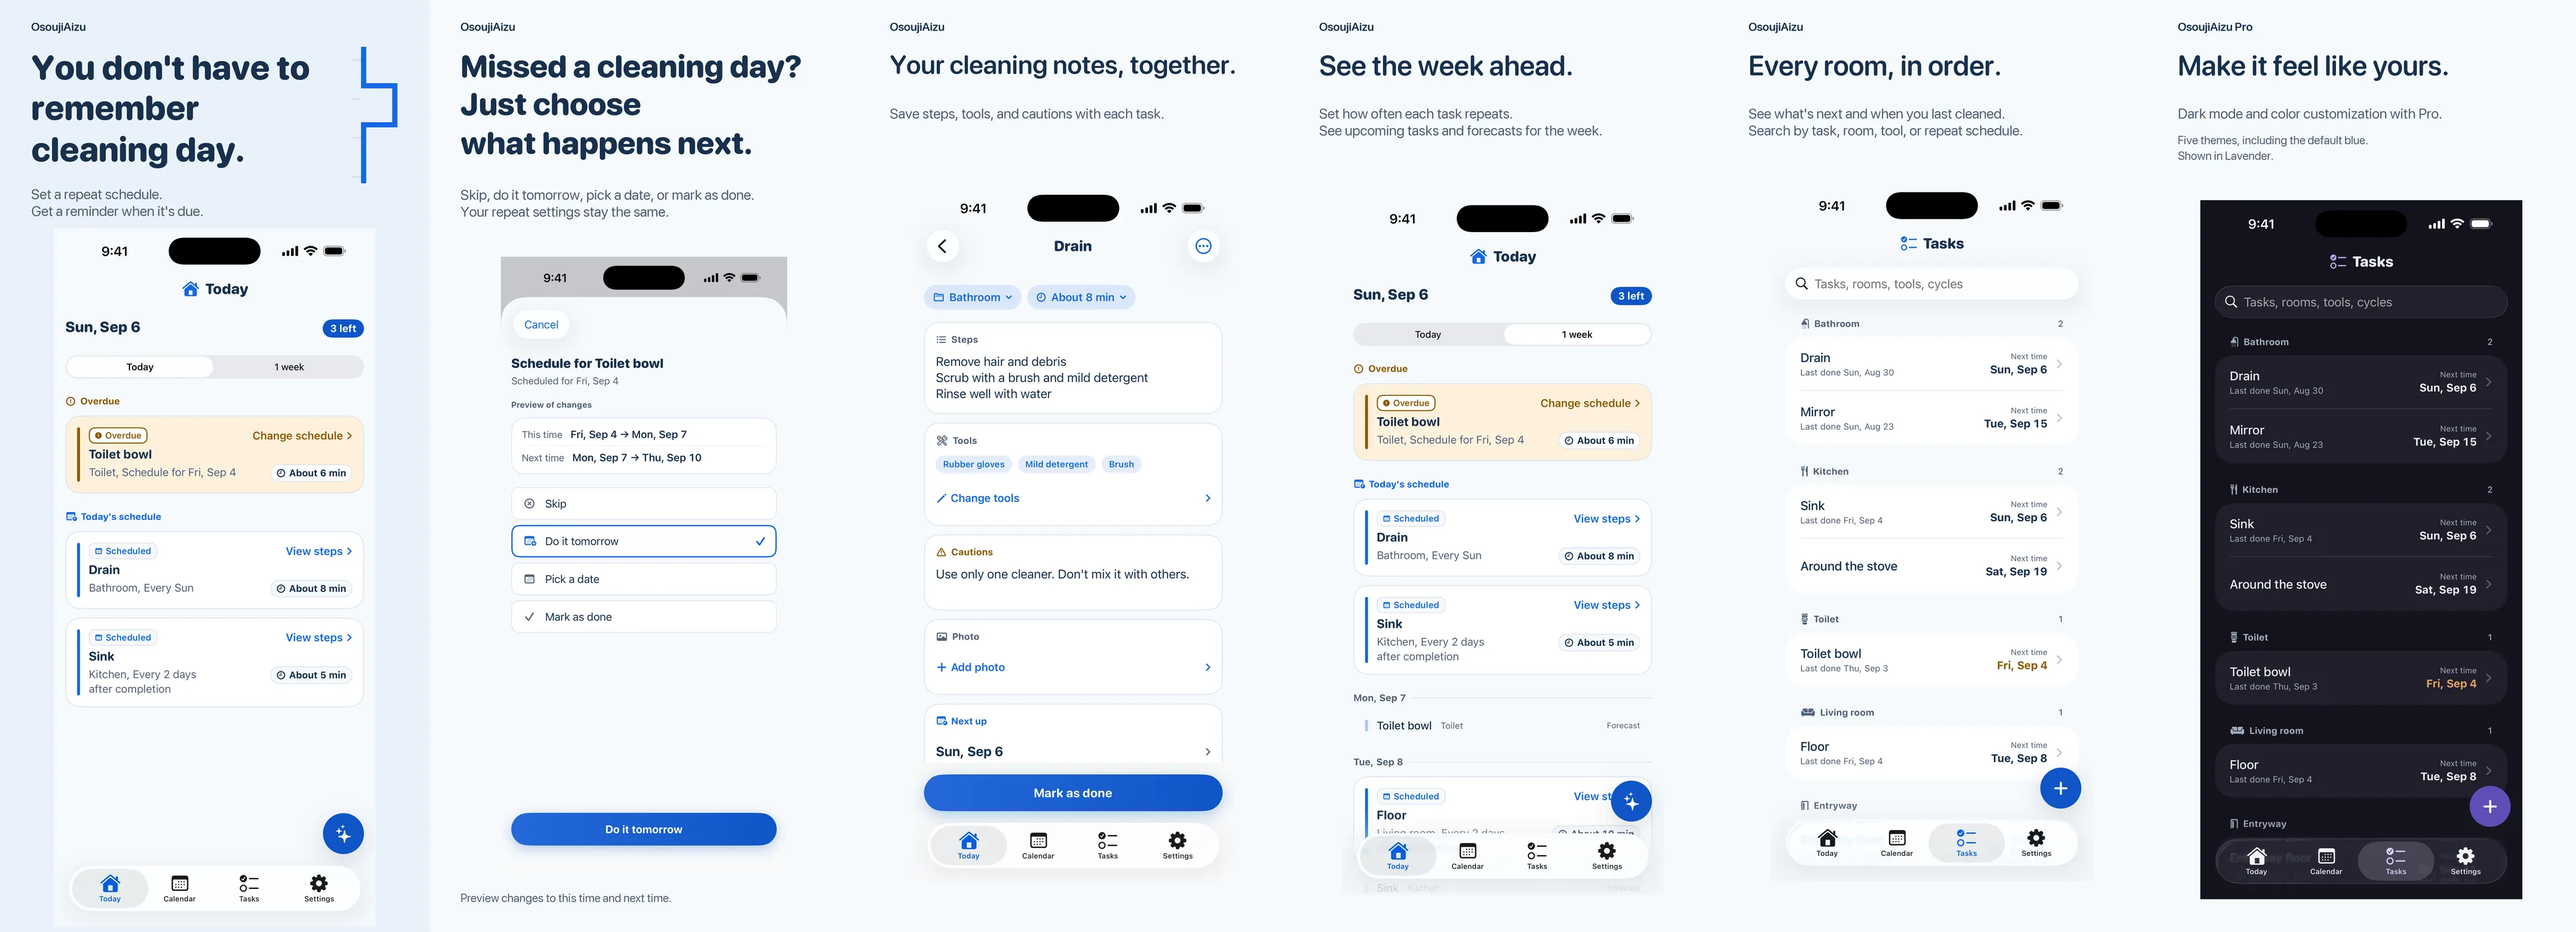
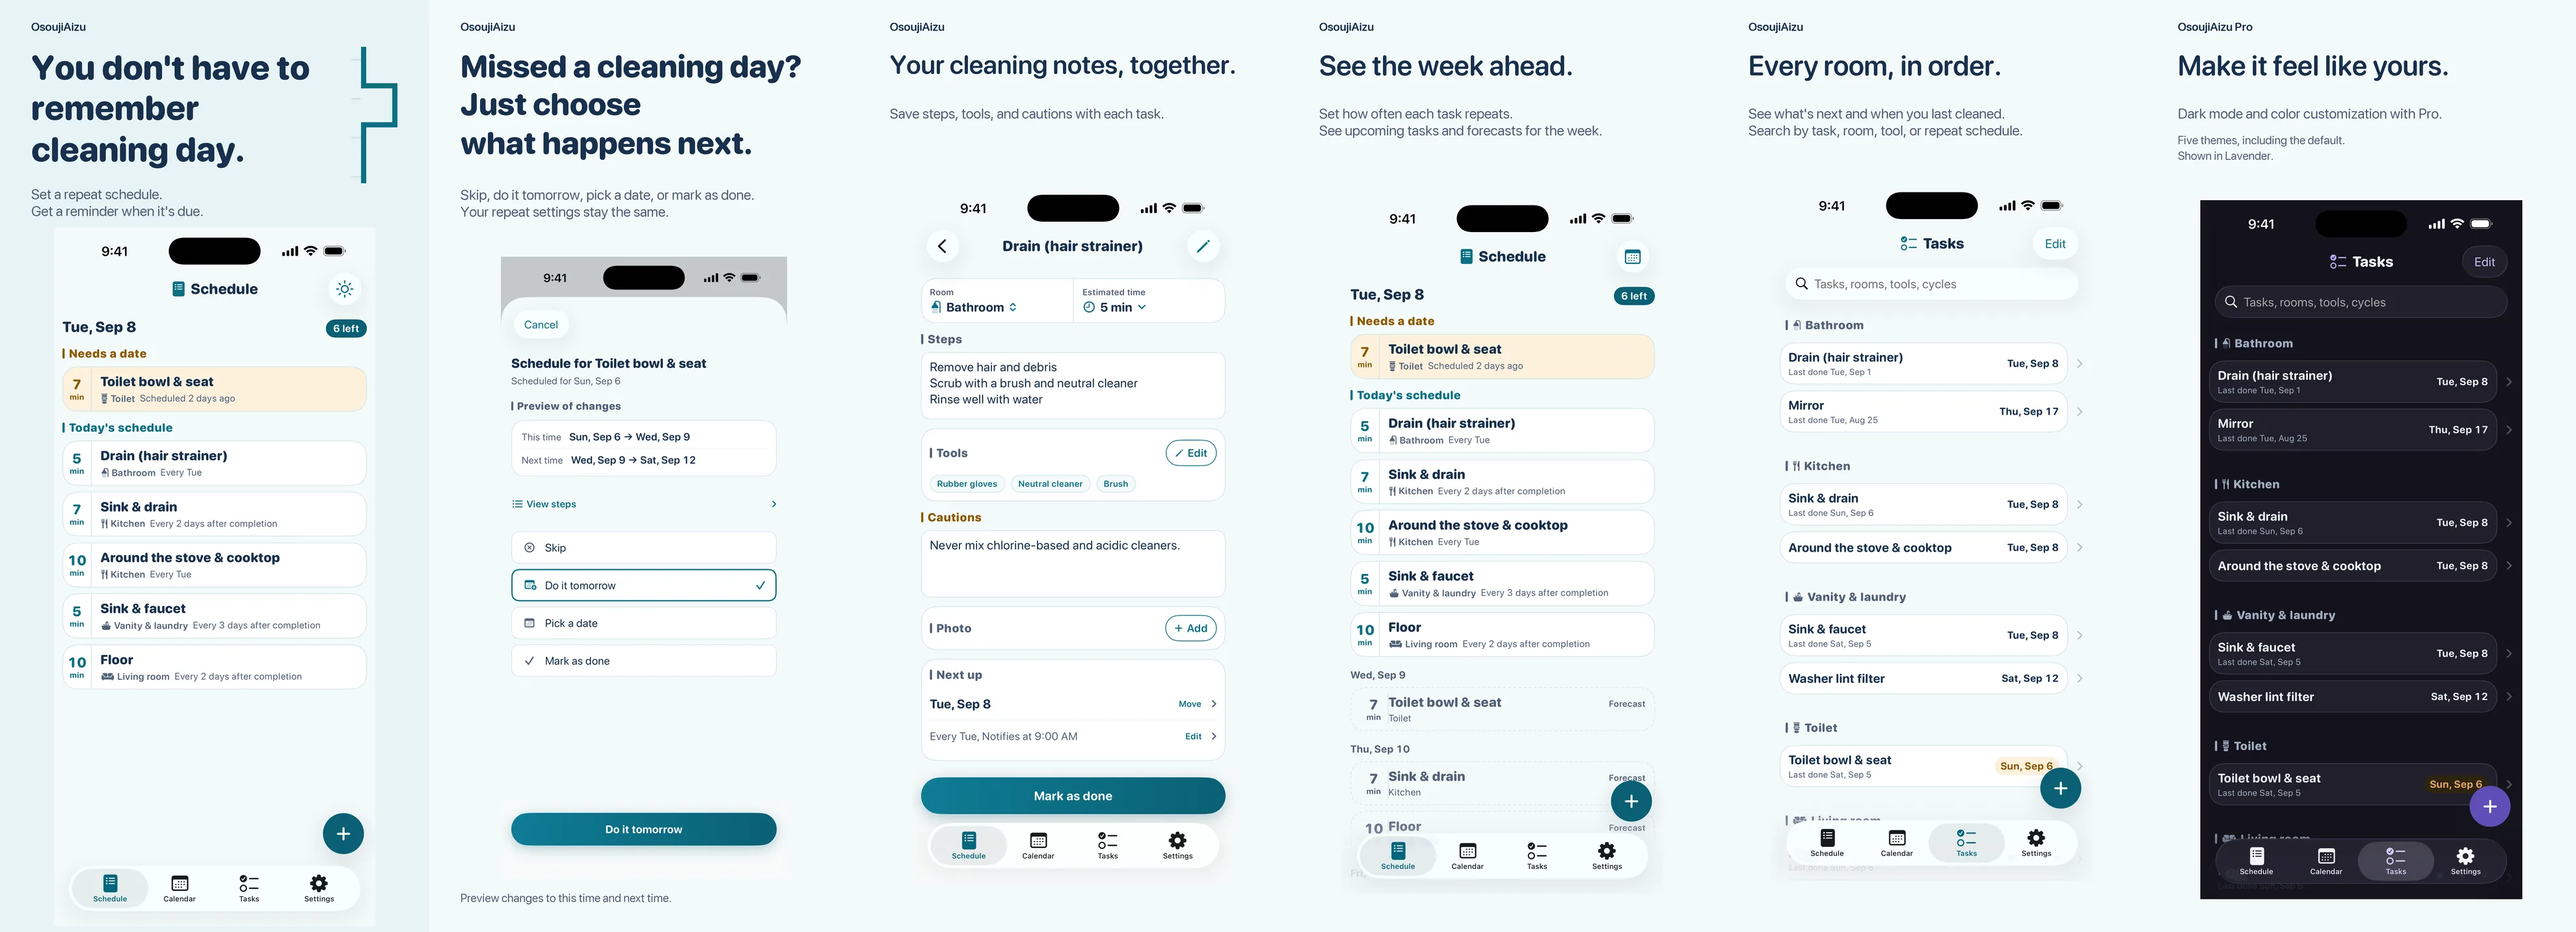
おそうじ合図: LP とサポートを現行のアプリに合わせる
- タブ名が「今日」のままだった（アプリは「予定」／英語は Schedule へ改称済み）。
  index・support の本文とスクショの読み上げラベルを日英とも直す
- サポートの「周期は勝手に変わりますか？」が実装と食い違っていた。予定を見直すと
  今回と次回の**どちらの日付も動く**（RescheduleSheetView のプレビューが2行出る）。
  変わらないのは周期そのもの
- LP のスクリーンショット4本を、2026-09-08 に作り直した訴求画像から再生成（日英・1x/@2x）

Claude-Session: https://claude.ai/code/session_01PemQtVUBi2TPc1iWQ6jLR3

diff --git a/osoujiaizu/index.html b/osoujiaizu/index.html
@@ -308,10 +308,10 @@
   <section class="shots" aria-label="アプリの画面">
     <div class="wrap">
       <figure class="shot">
-        <p class="sr-only">アプリの6画面。1. 今日「その日にやる掃除が、残り件数と所要時間つきで並ぶ」2. 予定を選び直す「できなかった日はスキップ・明日・日付選択・完了の4択。周期は変わらない」3. タスクの詳細「手順・使う道具・注意点をタスクに持てる」4. 1週間「先の予定と予測をまとめて見る」5. 部屋ごとのタスク「前回と次回が部屋別に並び、道具や周期でも検索できる」6. ダークとテーマ配色「Proで見た目を変えられる」</p>
+        <p class="sr-only">アプリの6画面。1. 予定「その日にやる掃除が、残り件数と所要時間つきで並ぶ」2. 予定を選び直す「できなかった日はスキップ・明日・日付選択・完了の4択。周期は変わらない」3. タスクの詳細「手順・使う道具・注意点をタスクに持てる」4. 1週間「先の予定と予測をまとめて見る」5. 部屋ごとのタスク「前回と次回が部屋別に並び、道具や周期でも検索できる」6. ダークとテーマ配色「Proで見た目を変えられる」</p>
         <div class="shot-frame">
           <div class="shot-track">
-            <button type="button" class="shot-slide" style="--i:0" aria-label="1枚目の画面（今日）を拡大"><img src="./app-image.webp" alt="" decoding="async"></button>
+            <button type="button" class="shot-slide" style="--i:0" aria-label="1枚目の画面（予定）を拡大"><img src="./app-image.webp" alt="" decoding="async"></button>
             <button type="button" class="shot-slide" style="--i:1" aria-label="2枚目の画面（予定を選び直す）を拡大"><img src="./app-image.webp" alt="" decoding="async"></button>
             <button type="button" class="shot-slide" style="--i:2" aria-label="3枚目の画面（タスクの詳細）を拡大"><img src="./app-image.webp" alt="" decoding="async"></button>
             <button type="button" class="shot-slide" style="--i:3" aria-label="4枚目の画面（1週間）を拡大"><img src="./app-image.webp" alt="" decoding="async"></button>
@@ -320,7 +320,7 @@
           </div>
         </div>
         <div class="shot-dots">
-          <button type="button" class="shot-dot" aria-label="1枚目の画面（今日）を表示"></button>
+          <button type="button" class="shot-dot" aria-label="1枚目の画面（予定）を表示"></button>
           <button type="button" class="shot-dot" aria-label="2枚目の画面（予定を選び直す）を表示"></button>
           <button type="button" class="shot-dot" aria-label="3枚目の画面（タスクの詳細）を表示"></button>
           <button type="button" class="shot-dot" aria-label="4枚目の画面（1週間）を表示"></button>
@@ -369,7 +369,7 @@
             <svg viewBox="0 0 24 24" fill="none" stroke="currentColor" stroke-width="1.8" stroke-linecap="round" stroke-linejoin="round" focusable="false"><rect x="3.5" y="5" width="17" height="15" rx="2.5"/><path d="M3.5 9.5h17"/><path d="M8 3v4M16 3v4"/><circle cx="8" cy="14" r="1.2" fill="currentColor" stroke="none"/><circle cx="12" cy="14" r="1.2" fill="currentColor" stroke="none"/><circle cx="16" cy="14" r="1.2" fill="currentColor" stroke="none"/></svg>
           </div>
           <h3>今日と、その先を見渡す</h3>
-          <p>「今日」は 今日だけか1週間かを切り替えられます。カレンダーでは先の予定と済ませた記録を月ごとに見られます。完了は1日1回までで、押し間違えてもその日のうちなら取り消せます。</p>
+          <p>「予定」は 今日だけか1週間かを切り替えられます。カレンダーでは先の予定と済ませた記録を月ごとに見られます。完了は1日1回までで、押し間違えてもその日のうちなら取り消せます。</p>
         </li>
       </ul>
       <p class="instruments">無料でタスク・予定それぞれ15件まで。掃除の記録に上限はありません。件数の上限をなくす・ダークモード・配色を選ぶ・記録の書き出し／読み込みは Pro の機能です。</p>
@@ -414,7 +414,7 @@
     <div class="lightbox-slide"><div class="lightbox-pane" style="--i:5"><img alt="" decoding="async"></div></div>
   </div>
   <div class="lightbox-dots">
-    <button type="button" class="lightbox-dot" aria-label="1枚目の画面（今日）を表示"></button>
+    <button type="button" class="lightbox-dot" aria-label="1枚目の画面（予定）を表示"></button>
     <button type="button" class="lightbox-dot" aria-label="2枚目の画面（予定を選び直す）を表示"></button>
     <button type="button" class="lightbox-dot" aria-label="3枚目の画面（タスクの詳細）を表示"></button>
     <button type="button" class="lightbox-dot" aria-label="4枚目の画面（1週間）を表示"></button>

diff --git a/osoujiaizu/en/index.html b/osoujiaizu/en/index.html
@@ -304,10 +304,10 @@
   <section class="shots" aria-label="App screens">
     <div class="wrap">
       <figure class="shot">
-        <p class="sr-only">Six app screens. 1. Today "What to clean today, with the number left and a time estimate." 2. Change schedule "Missed it? Skip, do it tomorrow, pick a date, or mark as done. The repeat schedule stays." 3. Task detail "Keep steps, tools, and cautions with the task." 4. The week "See upcoming tasks and forecasts together." 5. Tasks by room "Last and next time, grouped by room, searchable by tool or schedule." 6. Dark mode and themes "Change how it looks with Pro."</p>
+        <p class="sr-only">Six app screens. 1. Schedule "What to clean today, with the number left and a time estimate." 2. Change schedule "Missed it? Skip, do it tomorrow, pick a date, or mark as done. The repeat schedule stays." 3. Task detail "Keep steps, tools, and cautions with the task." 4. The week "See upcoming tasks and forecasts together." 5. Tasks by room "Last and next time, grouped by room, searchable by tool or schedule." 6. Dark mode and themes "Change how it looks with Pro."</p>
         <div class="shot-frame">
           <div class="shot-track">
-            <button type="button" class="shot-slide" style="--i:0" aria-label="Enlarge screen 1 (Today)"><img src="../app-image-en.webp" alt="" decoding="async"></button>
+            <button type="button" class="shot-slide" style="--i:0" aria-label="Enlarge screen 1 (Schedule)"><img src="../app-image-en.webp" alt="" decoding="async"></button>
             <button type="button" class="shot-slide" style="--i:1" aria-label="Enlarge screen 2 (Change schedule)"><img src="../app-image-en.webp" alt="" decoding="async"></button>
             <button type="button" class="shot-slide" style="--i:2" aria-label="Enlarge screen 3 (Task detail)"><img src="../app-image-en.webp" alt="" decoding="async"></button>
             <button type="button" class="shot-slide" style="--i:3" aria-label="Enlarge screen 4 (The week)"><img src="../app-image-en.webp" alt="" decoding="async"></button>
@@ -316,7 +316,7 @@
           </div>
         </div>
         <div class="shot-dots">
-          <button type="button" class="shot-dot" aria-label="Show screen 1 (Today)"></button>
+          <button type="button" class="shot-dot" aria-label="Show screen 1 (Schedule)"></button>
           <button type="button" class="shot-dot" aria-label="Show screen 2 (Change schedule)"></button>
           <button type="button" class="shot-dot" aria-label="Show screen 3 (Task detail)"></button>
           <button type="button" class="shot-dot" aria-label="Show screen 4 (The week)"></button>
@@ -365,7 +365,7 @@
             <svg viewBox="0 0 24 24" fill="none" stroke="currentColor" stroke-width="1.8" stroke-linecap="round" stroke-linejoin="round" focusable="false"><rect x="3.5" y="5" width="17" height="15" rx="2.5"/><path d="M3.5 9.5h17"/><path d="M8 3v4M16 3v4"/><circle cx="8" cy="14" r="1.2" fill="currentColor" stroke="none"/><circle cx="12" cy="14" r="1.2" fill="currentColor" stroke="none"/><circle cx="16" cy="14" r="1.2" fill="currentColor" stroke="none"/></svg>
           </div>
           <h3>See today, and what's coming</h3>
-          <p>Switch the Today screen between today only and the week ahead. The calendar shows upcoming plans and finished records month by month. A task can only be completed once a day, and if you tap it by mistake you can undo it the same day.</p>
+          <p>Switch the Schedule screen between today only and the week ahead. The calendar shows upcoming plans and finished records month by month. A task can only be completed once a day, and if you tap it by mistake you can undo it the same day.</p>
         </li>
       </ul>
       <p class="instruments">Free covers 15 tasks and 15 schedules. There's no limit on the records you keep. Pro removes the caps and adds dark mode, five color themes, and export and import of your records.</p>
@@ -410,7 +410,7 @@
     <div class="lightbox-slide"><div class="lightbox-pane" style="--i:5"><img alt="" decoding="async"></div></div>
   </div>
   <div class="lightbox-dots">
-    <button type="button" class="lightbox-dot" aria-label="Show screen 1 (Today)"></button>
+    <button type="button" class="lightbox-dot" aria-label="Show screen 1 (Schedule)"></button>
     <button type="button" class="lightbox-dot" aria-label="Show screen 2 (Change schedule)"></button>
     <button type="button" class="lightbox-dot" aria-label="Show screen 3 (Task detail)"></button>
     <button type="button" class="lightbox-dot" aria-label="Show screen 4 (The week)"></button>

diff --git a/osoujiaizu/support.html b/osoujiaizu/support.html
@@ -66,7 +66,7 @@
   <p>予定通りにできなかったからといって、責められることはありません。予定の日にできなかったときは、「予定を見直す」から「スキップ」「明日にやる」「日付を選ぶ」「完了にする」のいずれかを選べます。変更後の日付は確定する前に確認できます。</p>
 
   <h3>周期は勝手に変わりますか？</h3>
-  <p>変わりません。予定を見直しても動くのは今回の1回だけで、次回以降の周期はそのままです。周期が変わるのは、タスクの周期をご自身で編集したときだけです。</p>
+  <p>変わりません。予定を見直すと、今回の日付と、それに続く次回の日付が動きます（どちらも確定する前にプレビューで確認できます）。ただし周期そのもの（毎週・毎月など）は変わりません。周期が変わるのは、タスクの周期をご自身で編集したときだけです。</p>
 
   <h3>通知は何回来ますか？</h3>
   <p>1つの掃除予定につき、通知は1回です。予定の日にできなかった場合は、翌日の夜に予定を見直すための合図の通知が1回届きます。</p>
@@ -75,7 +75,7 @@
   <p>その日のうちであれば、タスクの詳細を開いて「取り消す」で戻せます。完了は1日1回までなので、続けて押しても同じ日の記録が二重になることはありません。</p>
 
   <h3>掃除の途中で見つけた汚れはどう登録しますか？</h3>
-  <p>「今日」画面の右下から、1回だけのタスク（スポットタスク）として登録できます。名前・部屋・目安時間だけで足せて、いつやるかは今日・明日・日付を選ぶから決められます。終わったあとに繰り返すことはありません。</p>
+  <p>「予定」画面の右下から、1回だけのタスク（スポットタスク）として登録できます。名前・部屋・目安時間だけで足せて、いつやるかは今日・明日・日付を選ぶから決められます。終わったあとに繰り返すことはありません。</p>
 
   <h3>使った道具から探せますか？</h3>
   <p>探せます。道具を登録してタスクに付けておくと、タスク一覧の検索欄に道具の名前を入れるだけで、その道具を使うタスクが並びます。周期（「毎週日曜」など）や部屋の名前でも探せます。道具の名前を変えると、その道具を使っているすべてのタスクに反映されます。</p>

diff --git a/osoujiaizu/en/support.html b/osoujiaizu/en/support.html
@@ -65,7 +65,7 @@
   <p>Missing a scheduled day is never held against you. When you couldn't get to a task, open "Re-plan" and choose to skip it, do it tomorrow, pick a date, or mark it done. You can check the new date before you confirm.</p>
 
   <h3>Does the cycle change on its own?</h3>
-  <p>No. Re-planning moves only that one occurrence; the cycle stays exactly as it was. The cycle changes only when you edit the task's cycle yourself.</p>
+  <p>No. Re-planning moves this occurrence and the next one that follows it, and you can preview both dates before you confirm. The repeat schedule itself (weekly, monthly, and so on) stays exactly as it was. It changes only when you edit the task's schedule yourself.</p>
 
   <h3>How many notifications do I get?</h3>
   <p>One notification per scheduled task. If you couldn't get to it on the day, you get one more notification the following evening, nudging you to re-plan it.</p>
@@ -74,7 +74,7 @@
   <p>Yes, on the same day. Open the task's detail screen and tap "Undo". A task can only be completed once a day, so tapping repeatedly won't create duplicate records for the same day.</p>
 
   <h3>How do I add grime I notice while cleaning?</h3>
-  <p>From the button at the bottom right of the Today screen, you can add it as a one-off task. A name, a room, and a rough duration is all you need, and you choose today, tomorrow, or a specific date. It doesn't repeat once it's done.</p>
+  <p>From the button at the bottom right of the Schedule screen, you can add it as a one-off task. A name, a room, and a rough duration is all you need, and you choose today, tomorrow, or a specific date. It doesn't repeat once it's done.</p>
 
   <h3>Can I search by the tools I use?</h3>
   <p>Yes. Register your tools and attach them to tasks, then type a tool's name into the search field on the task list to see every task that uses it. You can also search by cycle (such as "every Sunday") or by room name. Renaming a tool updates every task that uses it.</p>
